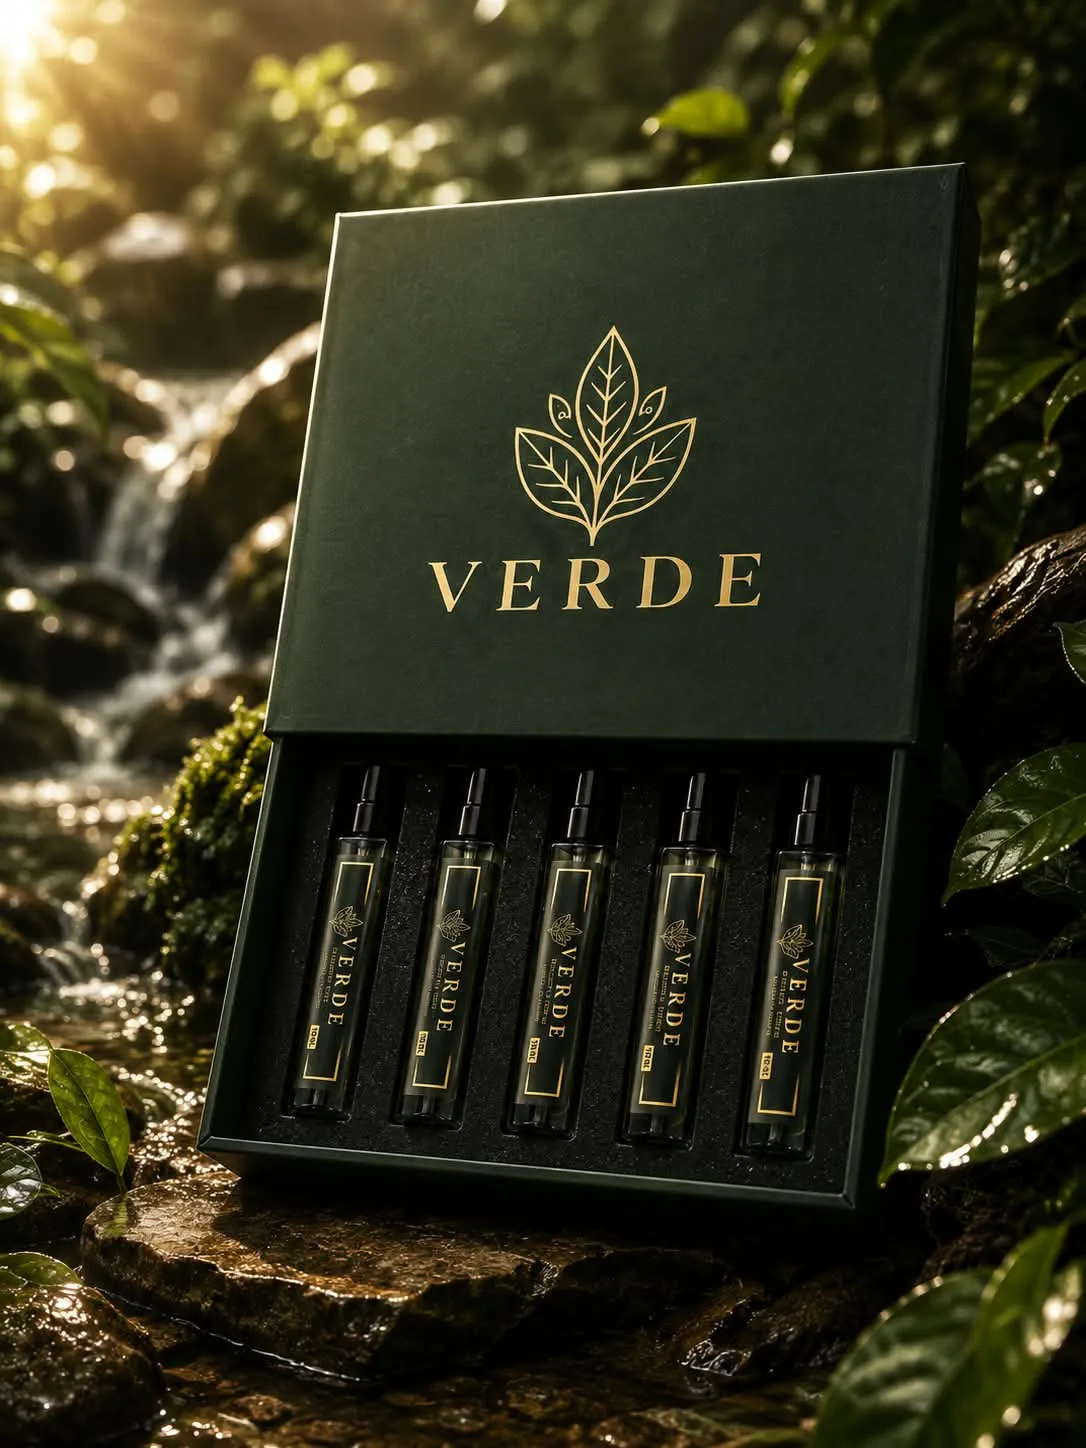
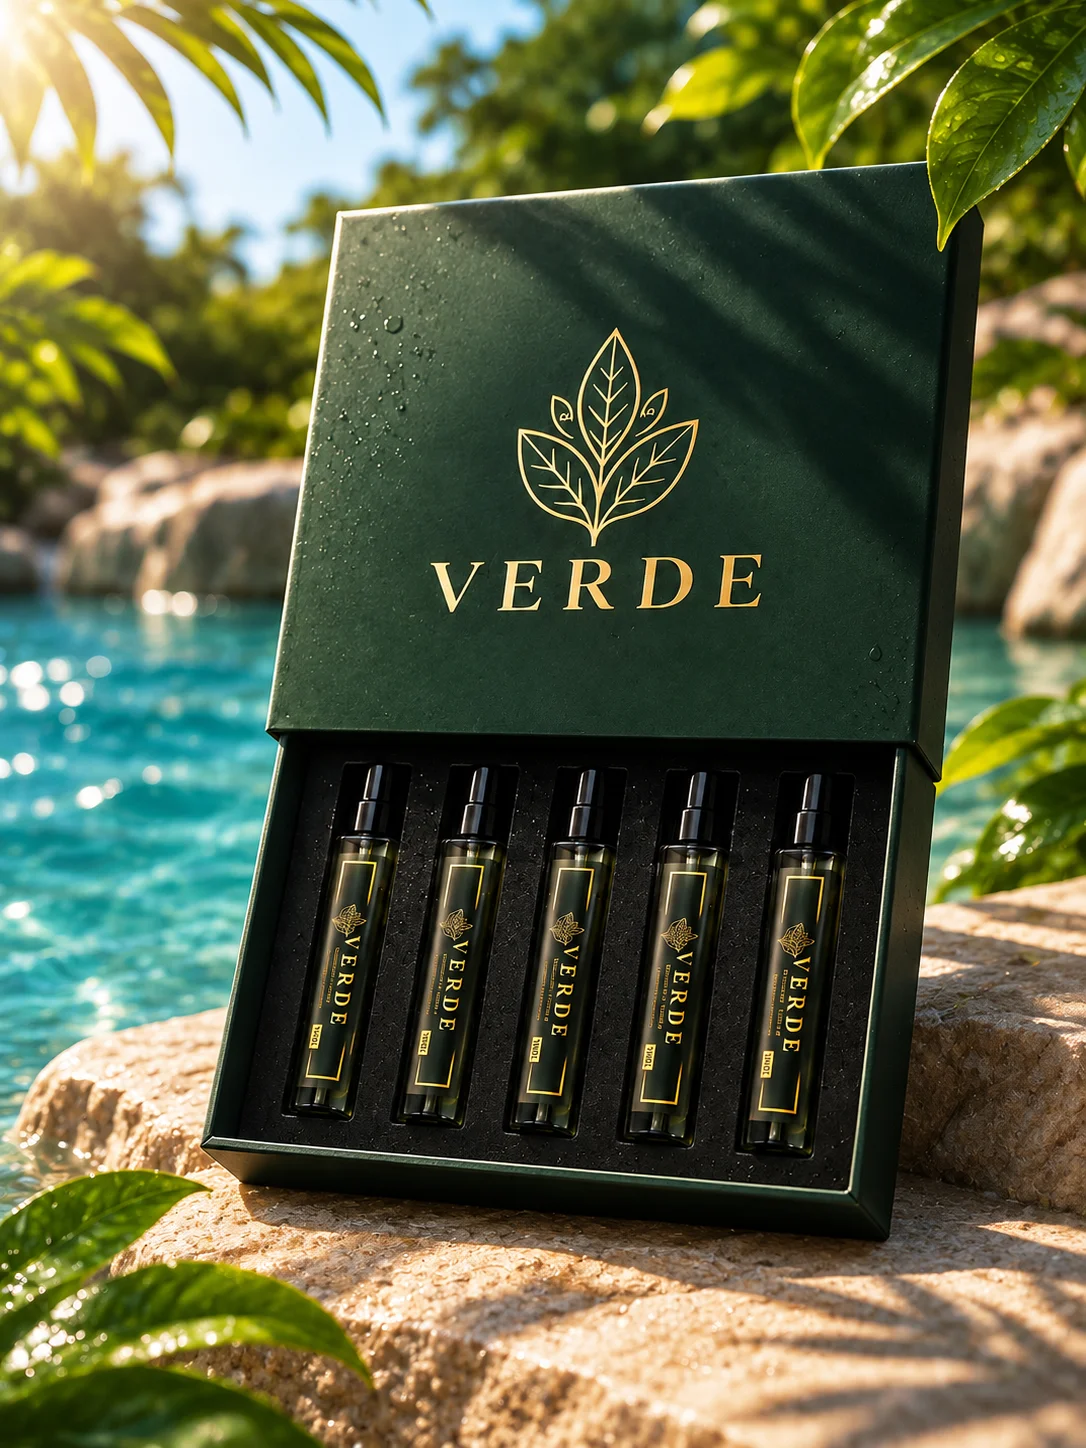
feat: add root layout, product data, translations, and product images

diff --git a/app/lib/products.ts b/app/lib/products.ts
@@ -159,9 +159,9 @@ export const products: Product[] = [
     slug: 'discover-box',
     name: 'Discover Box',
     subtitle: '5 x 10 ML — DISCOVERY SET',
-    price: 650,
-    img: '/products/Discover Box.webp',
-    imgs: ['/products/Discover Box.webp'],
+    price: 649,
+    img: '/products/VERDE Summer by the Water.webp',
+    imgs: ['/products/VERDE Summer by the Water.webp', '/products/Discover Box.webp'],
     tag: 'DISCOVERY SET',
     notes: [],
     family: 'Discovery Fragrance Box',
@@ -284,6 +284,30 @@ export const products: Product[] = [
     volume: '50 ML',
     occasion: ['Special Occasions', 'Evening', 'Formal', 'Signature Wear'],
     season: ['Fall', 'Winter', 'Spring'],
+  },
+  {
+    id: 13,
+    slug: 'winter-discover-box',
+    name: 'Winter Discover Box',
+    subtitle: '5 x 10 ML — WINTER DISCOVERY SET',
+    price: 649,
+    img: '/products/Verde Luxury Perfume in a Winter Stream.webp',
+    imgs: [
+      '/products/Verde Luxury Perfume in a Winter Stream.webp',
+      '/products/Winter Discover Box.webp',
+    ],
+    tag: 'WINTER EDITION',
+    notes: [],
+    family: 'Winter Discovery Fragrance Box',
+    intensity: 'Warm & Intense Collection',
+    description: 'بوكس استكشاف شتوي فاخر يحتوي على 5 من أحدث وأفخم عطور الشتاء من VERDE:\n1⃣ Cavaro (المستوحى من Layton)\n2⃣ Rexon (المستوحى من Althaïr)\n3⃣ Incenso (المستوحى من Interlude 53)\n4⃣ Velor (المستوحى من Dior Homme Intense)\n5⃣ Solvér (المستوحى من Naxos)',
+    longDescription: 'مجموعة الاستكشاف الشتوية Winter Discover Box من VERDE PARFUMS صُممت خصيصاً لتمنحك رحلة عطرية دافئة تأسر الحواس عبر تجربة 5 من أحدث وأرقى عطورنا بالحجم المثالي:\n\n1⃣ Cavaro (المستوحى من Layton)\n2⃣ Rexon (المستوحى من Althaïr)\n3⃣ Incenso (المستوحى من Interlude 53)\n4⃣ Velor (المستوحى من Dior Homme Intense)\n5⃣ Solvér (المستوحى من Naxos)',
+    topNotes: [],
+    heartNotes: [],
+    baseNotes: [],
+    volume: '5 x 10 ML',
+    occasion: ['Gifting', 'Winter Gatherings', 'Evening', 'Travel & Discovery', 'Special Occasions'],
+    season: ['Winter', 'Fall'],
   },
 ];
 

diff --git a/app/lib/translations.ts b/app/lib/translations.ts
@@ -13,6 +13,7 @@ export const translations = {
     },
     announcements: [
       '✨ NEW COLLECTION — CAVARO, REXON, INCENSO, VELOR & SOLVÉR NOW AVAILABLE',
+      '❄ NEW: WINTER DISCOVER BOX — EXPLORE OUR 5 NEW EXCLUSIVE SCENTS',
       '🔥 EXPLORE OUR 5 NEW EXCLUSIVE LUXURY RELEASES',
       '💚 AUTHENTIC LUXURY FRAGRANCES FROM VERDE — EXTRAIT DE PARFUM',
       '🚚 FREE SHIPPING ON ORDERS OVER 1,000 EGP',
@@ -355,6 +356,7 @@ export const translations = {
     },
     announcements: [
       '✨ وصول 5 عطور جديدة وحصرية — CAVARO • REXON • INCENSO • VELOR • SOLVÉR متاحة الآن',
+      '❄ وصول بوكس الاستكشاف الشتوي الجديد (Winter Discover Box) متوفر الآن',
       '🔥 اكتشف أحدث إبداعات VERDE: كافارو، ريكسون، إنسينسو، فيلور، وسولفير',
       '💚 عطور فاخرة أصيلة من VERDE — تركيز Extrait de Parfum',
       '🚚 شحن مجاني للطلبات أكثر من 1,000 جنيه',
@@ -758,6 +760,7 @@ export const tagTranslations: Record<string, string> = {
   'TRENDING': 'رائج الآن',
   'TRENDING NICHE': 'نيش عصري',
   'DISCOVERY SET': 'مجموعة استكشاف',
+  'WINTER EDITION': 'إصدار شتوي',
   'NEW': 'جديد',
   'NEW ARRIVAL': 'وصل حديثاً',
   'SIGNATURE NICHE': 'إصدار استثنائي',

diff --git a/app/layout.tsx b/app/layout.tsx
@@ -336,12 +336,19 @@ const jsonLdSchema = {
           '@type': 'SiteNavigationElement',
           position: 13,
           name: 'Discover Box',
-          description: 'مجموعة استكشاف عينات عطور فيردي الكاملة',
+          description: 'مجموعة استكشاف عينات عطور فيردي الصيفية والكلاسيكية',
           url: `${SITE_URL}/products/discover-box`,
         },
         {
           '@type': 'SiteNavigationElement',
           position: 14,
+          name: 'Winter Discover Box',
+          description: 'مجموعة استكشاف عينات عطور فيردي الشتوية الفاخرة',
+          url: `${SITE_URL}/products/winter-discover-box`,
+        },
+        {
+          '@type': 'SiteNavigationElement',
+          position: 15,
           name: 'سلة المشتريات',
           description: 'عرض سلة التسوق وإتمام الطلب أونلاين',
           url: `${SITE_URL}/cart`,
